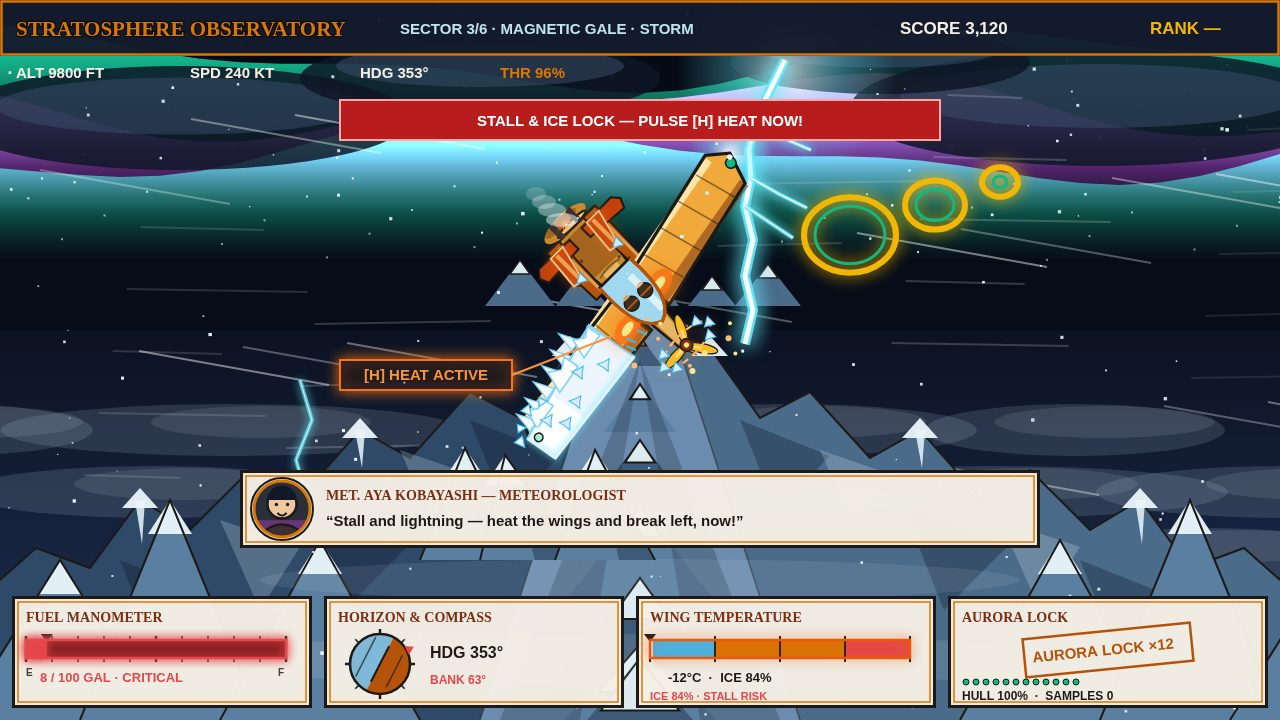
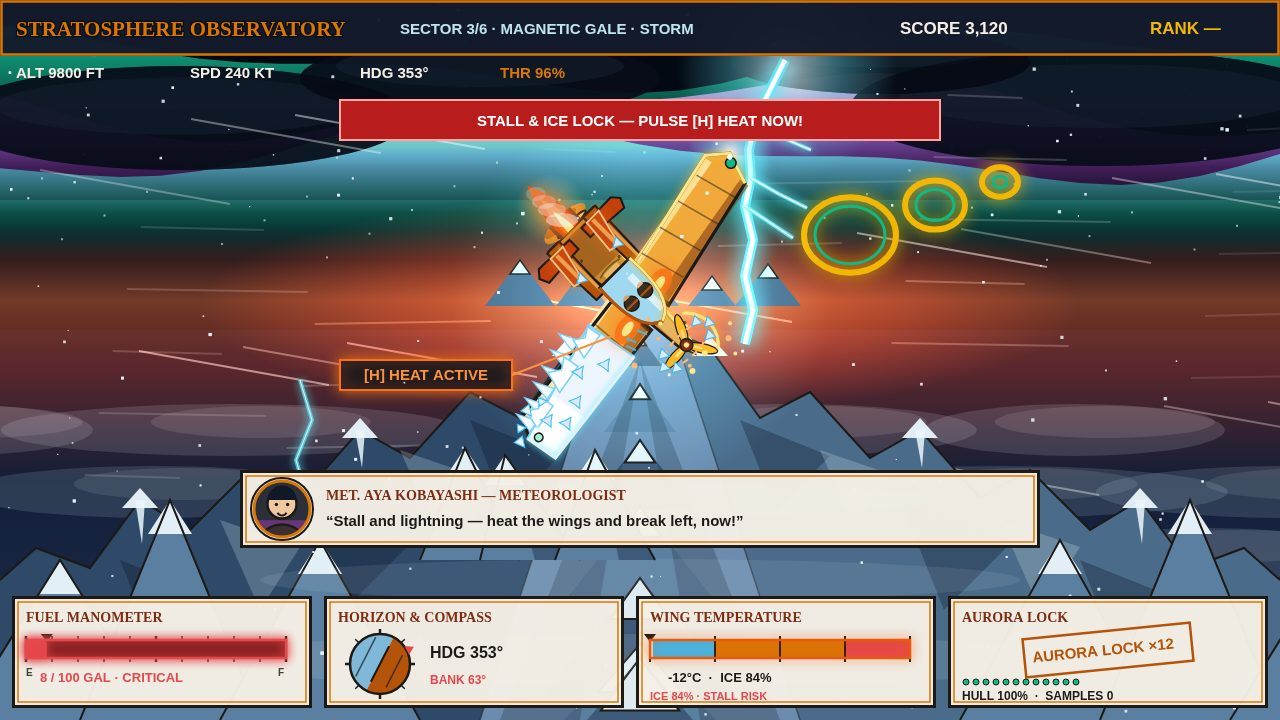
v3.1: Shot 3 dramatic storm — dark clouds, red-orange horizon glow, lightning flash, afterburner + gold rim-light (R4, Fura approved)

diff --git a/game/src/art.js b/game/src/art.js
@@ -359,6 +359,18 @@ export function drawChaseAircraft(ctx, cx, cy, bank, t, opts = {}) {
   ctx.moveTo(-30, 92); ctx.lineTo(-18, 44); ctx.lineTo(-10, -20); ctx.lineTo(-6, -62);
   ctx.lineTo(6, -62); ctx.lineTo(10, -20); ctx.lineTo(18, 44); ctx.lineTo(30, 92);
   ctx.closePath(); ctx.stroke();
+  // v3.1 (dive25 only): GOLD RIM-LIGHT on the fuselage edge facing the
+  // bolt (local -x = screen up-right after the 135° dive) — the
+  // lightning catch that separates the brass body from the dark sky.
+  if (opts.dive25) {
+    ctx.save();
+    ctx.shadowColor = '#FBBF24'; ctx.shadowBlur = 8;
+    ctx.strokeStyle = '#FDE68A'; ctx.lineWidth = 3; ctx.lineJoin = 'round';
+    ctx.beginPath();
+    ctx.moveTo(-6, -62); ctx.lineTo(-10, -20); ctx.lineTo(-18, 44); ctx.lineTo(-30, 92);
+    ctx.stroke();
+    ctx.restore();
+  }
   // panel lines across the fuselage
   ctx.strokeStyle = 'rgba(28,25,23,0.45)'; ctx.lineWidth = 1.5;
   for (const py of [-16, 12, 40]) {
@@ -389,13 +401,40 @@ export function drawChaseAircraft(ctx, cx, cy, bank, t, opts = {}) {
   }
   // heater exhaust flame at the tail (storm / heat on) — small, at viewer
   if (opts.storm) {
-    ctx.save(); ctx.translate(0, 96);
-    ctx.shadowColor = '#F97316'; ctx.shadowBlur = 10;
-    ctx.fillStyle = '#F97316';
-    ctx.beginPath(); ctx.moveTo(-6, 0); ctx.quadraticCurveTo(0, 14, 6, 0); ctx.quadraticCurveTo(0, 5, -6, 0); ctx.closePath(); ctx.fill();
-    ctx.fillStyle = '#FDE68A';
-    ctx.beginPath(); ctx.moveTo(-3, 0); ctx.quadraticCurveTo(0, 7, 3, 0); ctx.quadraticCurveTo(0, 3, -3, 0); ctx.closePath(); ctx.fill();
-    ctx.restore();
+    if (opts.dive25) {
+      // v3.1 (dive25 only): AFTERBURNER — a big 3-layer orange-red flame
+      // cone streaming back from the tail (local +y = tail direction,
+      // up-left on screen after the 135° dive, away from the plane and
+      // clear of the [H] chip, bolt and rings). Screen tip ~(528,186),
+      // well inside the y150–y460 free band — no clearance impact.
+      ctx.save(); ctx.translate(0, 92);
+      ctx.save();
+      ctx.globalCompositeOperation = 'lighter';
+      const abGlow = ctx.createRadialGradient(0, 26, 2, 0, 26, 34);
+      abGlow.addColorStop(0, 'rgba(249,115,22,0.45)');
+      abGlow.addColorStop(1, 'rgba(249,115,22,0)');
+      ctx.fillStyle = abGlow;
+      ctx.beginPath(); ctx.arc(0, 26, 34, 0, Math.PI * 2); ctx.fill();
+      ctx.restore();
+      ctx.save();
+      ctx.shadowColor = '#F97316'; ctx.shadowBlur = 16;
+      ctx.fillStyle = '#EA580C';
+      ctx.beginPath(); ctx.moveTo(-10, 0); ctx.quadraticCurveTo(-13, 30, 0, 58); ctx.quadraticCurveTo(13, 30, 10, 0); ctx.closePath(); ctx.fill();
+      ctx.restore();
+      ctx.fillStyle = '#F97316';
+      ctx.beginPath(); ctx.moveTo(-7, 0); ctx.quadraticCurveTo(-8, 20, 0, 40); ctx.quadraticCurveTo(8, 20, 7, 0); ctx.closePath(); ctx.fill();
+      ctx.fillStyle = '#FDE68A';
+      ctx.beginPath(); ctx.moveTo(-4, 0); ctx.quadraticCurveTo(-4, 12, 0, 24); ctx.quadraticCurveTo(4, 12, 4, 0); ctx.closePath(); ctx.fill();
+      ctx.restore();
+    } else {
+      ctx.save(); ctx.translate(0, 96);
+      ctx.shadowColor = '#F97316'; ctx.shadowBlur = 10;
+      ctx.fillStyle = '#F97316';
+      ctx.beginPath(); ctx.moveTo(-6, 0); ctx.quadraticCurveTo(0, 14, 6, 0); ctx.quadraticCurveTo(0, 5, -6, 0); ctx.closePath(); ctx.fill();
+      ctx.fillStyle = '#FDE68A';
+      ctx.beginPath(); ctx.moveTo(-3, 0); ctx.quadraticCurveTo(0, 7, 3, 0); ctx.quadraticCurveTo(0, 3, -3, 0); ctx.closePath(); ctx.fill();
+      ctx.restore();
+    }
   }
   ctx.restore(); // end dive-rotated fuselage group (v2.5; no-op when DIVE 0)
   // ---- wings (rolled with the bank about the wing root, local (0, 5))
@@ -415,6 +454,18 @@ export function drawChaseAircraft(ctx, cx, cy, bank, t, opts = {}) {
     ctx.fillStyle = 'rgba(120,53,15,0.55)'; ctx.fillRect(sign > 0 ? 12 : -150, 10, 138, 10);
     ctx.fillStyle = opts.dive25 ? 'rgba(255,232,175,0.95)' : 'rgba(255,224,160,0.9)'; ctx.fillRect(sign > 0 ? 12 : -148, -28, 136, 7);
     ctx.strokeStyle = INK; ctx.lineWidth = 3; ctx.stroke();
+    // v3.1 (dive25 only): GOLD RIM-LIGHT on the rising right wing's
+    // leading edge + tip — the edge facing the near-miss bolt, so the
+    // copper wing keeps its edge against the white-cyan flash.
+    if (opts.dive25 && sign > 0) {
+      ctx.save();
+      ctx.shadowColor = '#FBBF24'; ctx.shadowBlur = 8;
+      ctx.strokeStyle = '#FDE68A'; ctx.lineWidth = 3; ctx.lineJoin = 'round';
+      ctx.beginPath();
+      ctx.moveTo(12, -23); ctx.lineTo(150, -30); ctx.lineTo(165, -12); ctx.lineTo(150, 16);
+      ctx.stroke();
+      ctx.restore();
+    }
     // wing ribs
     ctx.strokeStyle = 'rgba(28,25,23,0.5)'; ctx.lineWidth = 1.5;
     for (let i = 0; i < 4; i++) {
@@ -581,6 +632,17 @@ export function drawChaseAircraft(ctx, cx, cy, bank, t, opts = {}) {
   ctx.beginPath();
   ctx.moveTo(-20, 34); ctx.quadraticCurveTo(-24, -22, 0, -30); ctx.quadraticCurveTo(24, -22, 20, 34);
   ctx.stroke();
+  // v3.1 (dive25 only): GOLD RIM-LIGHT on the canopy edge facing the
+  // bolt (local -x = screen up-right after the 135° dive).
+  if (opts.dive25) {
+    ctx.save();
+    ctx.shadowColor = '#FBBF24'; ctx.shadowBlur = 6;
+    ctx.strokeStyle = '#FDE68A'; ctx.lineWidth = 2.5;
+    ctx.beginPath();
+    ctx.moveTo(-20, 34); ctx.quadraticCurveTo(-24, -22, 0, -30);
+    ctx.stroke();
+    ctx.restore();
+  }
   // crew heads side by side behind the glass — dark leather flying
   // helmets seen from behind (pass 3: skin-tone faces with hair caps
   // read as two cartoon eyes at this size).
@@ -634,6 +696,15 @@ export function drawChaseAircraft(ctx, cx, cy, bank, t, opts = {}) {
   if (opts.dive25) {
     ctx.fillStyle = '#FDE68A';
     ctx.beginPath(); ctx.arc(0, 0, 2.5, 0, Math.PI * 2); ctx.fill();
+  }
+  // v3.1 (dive25 only): GOLD RIM-LIGHT arc on the prop-disc edge facing
+  // the bolt (local -x = screen up-right after the 135° dive).
+  if (opts.dive25) {
+    ctx.save();
+    ctx.shadowColor = '#FBBF24'; ctx.shadowBlur = 8;
+    ctx.strokeStyle = '#FDE68A'; ctx.lineWidth = 3; ctx.lineCap = 'round';
+    ctx.beginPath(); ctx.arc(0, 0, 30, Math.PI * 0.72, Math.PI * 1.28); ctx.stroke();
+    ctx.restore();
   }
   // heated-prop glow ring (installed anti-ice prop)
   if (mods.includes('anti-ice-prop')) {

diff --git a/game/src/render.js b/game/src/render.js
@@ -411,6 +411,18 @@ export function drawStorm(ctx, g, world) {
     ctx.fillStyle = 'rgba(60,80,110,0.5)';
     ctx.beginPath(); ctx.ellipse(ccx, ccy - 12, crx * 0.8, cry * 0.55, 0, 0, Math.PI * 2); ctx.fill();
   }
+  // v3.1 (Shot 3 only, chase25): DARKEN the storm clouds at the top of
+  // the frame — a second near-black pass over the cloud masses + a top
+  // veil, so the horizon glow and the lightning flash read brighter.
+  // The red banner / topBar are drawn later, opaque, on top — untouched.
+  if (g.chase25) {
+    ctx.fillStyle = 'rgba(2,5,12,0.22)';
+    ctx.fillRect(0, 0, 1280, 200);
+    for (const [ccx, ccy, crx, cry] of [[180, 118, 230, 52], [1100, 108, 250, 58], [480, 78, 180, 38], [880, 62, 150, 32]]) {
+      ctx.fillStyle = 'rgba(6,10,20,0.55)';
+      ctx.beginPath(); ctx.ellipse(ccx, ccy, crx, cry, 0, 0, Math.PI * 2); ctx.fill();
+    }
+  }
   drawWindStreaks(ctx, g, 30); // v2.2: denser speed lines for the climax
   // v2.3: fast storm wind lines — v2.4 angles them diagonally down-left
   // so the gale reads as a crosswind shoving the plane off the gates.
@@ -423,6 +435,30 @@ export function drawStorm(ctx, g, world) {
     ctx.beginPath(); ctx.moveTo(wx, wy); ctx.lineTo(wx + 190, wy + 34); ctx.stroke();
   }
   ctx.restore();
+  // v3.1 (Shot 3 only, chase25): GLOWING red-orange horizon behind the
+  // ice mountains — a vertical sunset band + a tight elliptical core at
+  // the vanishing point, additive ('lighter'), drawn BEFORE the canyon
+  // so the walls and threat peaks occlude it and it shows only through
+  // the gaps. Never covers a peak or the plane (both drawn after).
+  if (g.chase25) {
+    ctx.save();
+    ctx.globalCompositeOperation = 'lighter';
+    const hz = ctx.createLinearGradient(0, 230, 0, 480);
+    hz.addColorStop(0, 'rgba(255,90,30,0)');
+    hz.addColorStop(0.28, 'rgba(255,110,40,0.42)');
+    hz.addColorStop(0.55, 'rgba(255,60,20,0.30)');
+    hz.addColorStop(1, 'rgba(255,60,20,0)');
+    ctx.fillStyle = hz;
+    ctx.fillRect(0, 230, 1280, 250);
+    ctx.translate(640, 305); ctx.scale(2.2, 0.55);
+    const core = ctx.createRadialGradient(0, 0, 0, 0, 0, 200);
+    core.addColorStop(0, 'rgba(255,130,50,0.55)');
+    core.addColorStop(0.6, 'rgba(255,80,30,0.25)');
+    core.addColorStop(1, 'rgba(255,80,30,0)');
+    ctx.fillStyle = core;
+    ctx.beginPath(); ctx.arc(0, 0, 200, 0, Math.PI * 2); ctx.fill();
+    ctx.restore();
+  }
   drawCanyon3D(ctx); // v2.4: perspective ice canyon, walls -> vanishing point
   if (g.chase25) {
     // v2.5: sharp jagged ice peaks raised RIGHT BELOW the diving left
@@ -549,6 +585,24 @@ export function drawStorm(ctx, g, world) {
   // (banner bottom y140 + 10, dialogue top y470 − 10) the clearances
   // are ~11px each side (measured from the render). Live storm play
   // keeps (640, 305), unscaled.
+  // v3.1 (Shot 3 only, chase25): LIGHTNING FLASH on the plane silhouette
+  // — a soft white-cyan halo behind the aircraft (drawn BEFORE the
+  // plane, so the plane itself stays crisp and the flash reads as
+  // backlight). The bolt trace itself is untouched (near-miss geometry
+  // unchanged). Radius capped so the faint edge stays well clear of the
+  // banner (bottom y140) and dialogue (top y470); the banner is opaque
+  // and drawn later in any case.
+  if (g.chase25) {
+    ctx.save();
+    ctx.globalCompositeOperation = 'lighter';
+    const flash = ctx.createRadialGradient(640, 298.5, 10, 640, 298.5, 190);
+    flash.addColorStop(0, 'rgba(224,242,254,0.30)');
+    flash.addColorStop(0.5, 'rgba(103,232,249,0.14)');
+    flash.addColorStop(1, 'rgba(103,232,249,0)');
+    ctx.fillStyle = flash;
+    ctx.beginPath(); ctx.arc(640, 298.5, 190, 0, Math.PI * 2); ctx.fill();
+    ctx.restore();
+  }
   drawChaseAircraft(ctx, 640, g.chase25 ? 298.5 : 305, -1.10, g.t, { crew: 3, mods: g.modules.map((m) => m.id), iced: true, storm: true, climax: true, dive25: !!g.chase25 });
   // v2.1: orange engine sparks from the propeller (deterministic, fixed
   // shot time) — v2.4 re-centred on the chase-view nose prop (640, 243).
